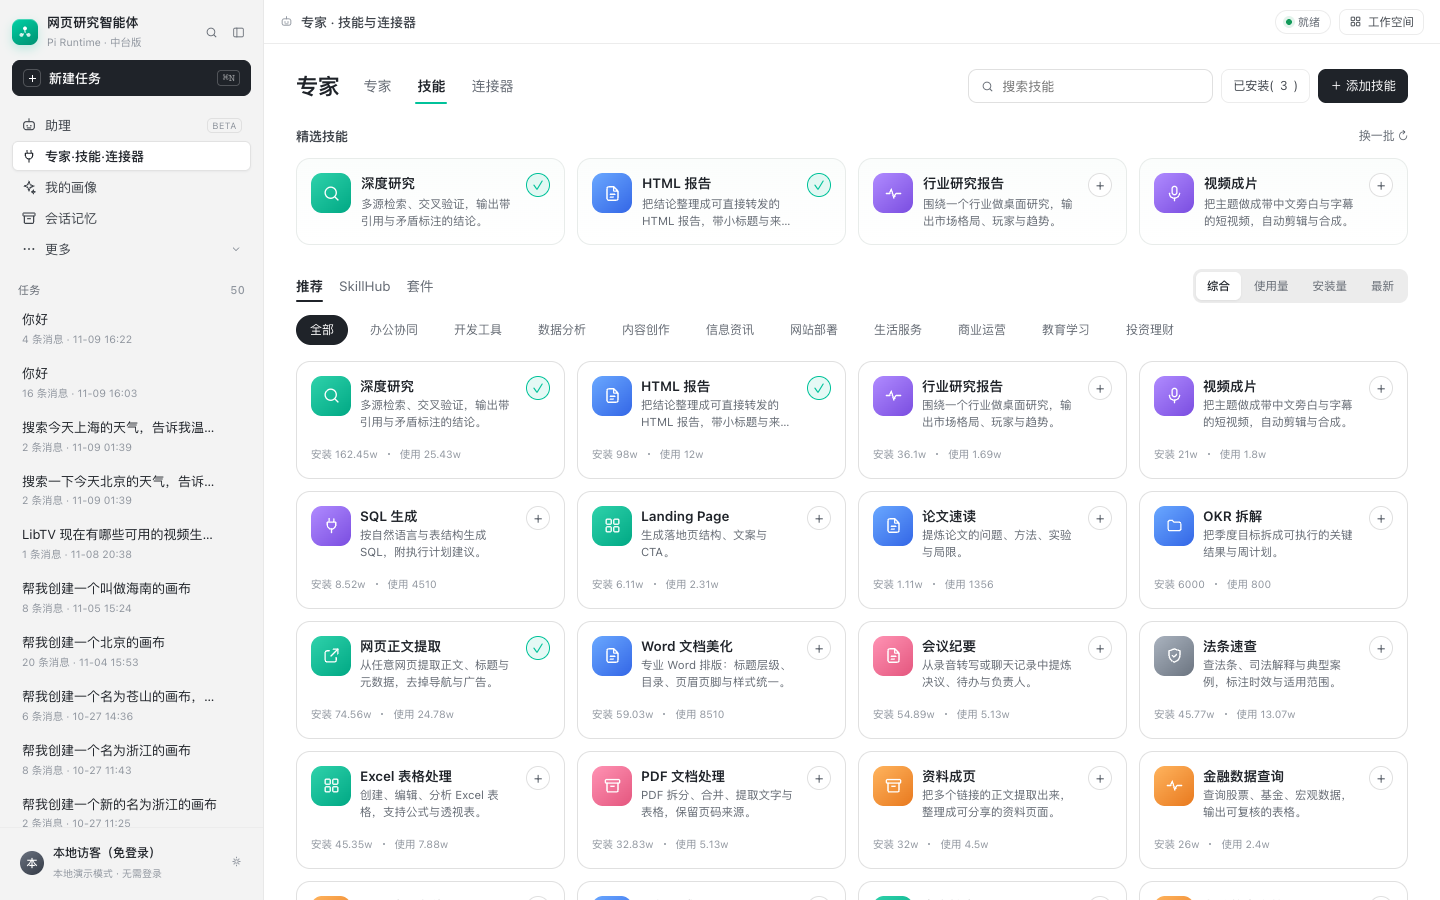
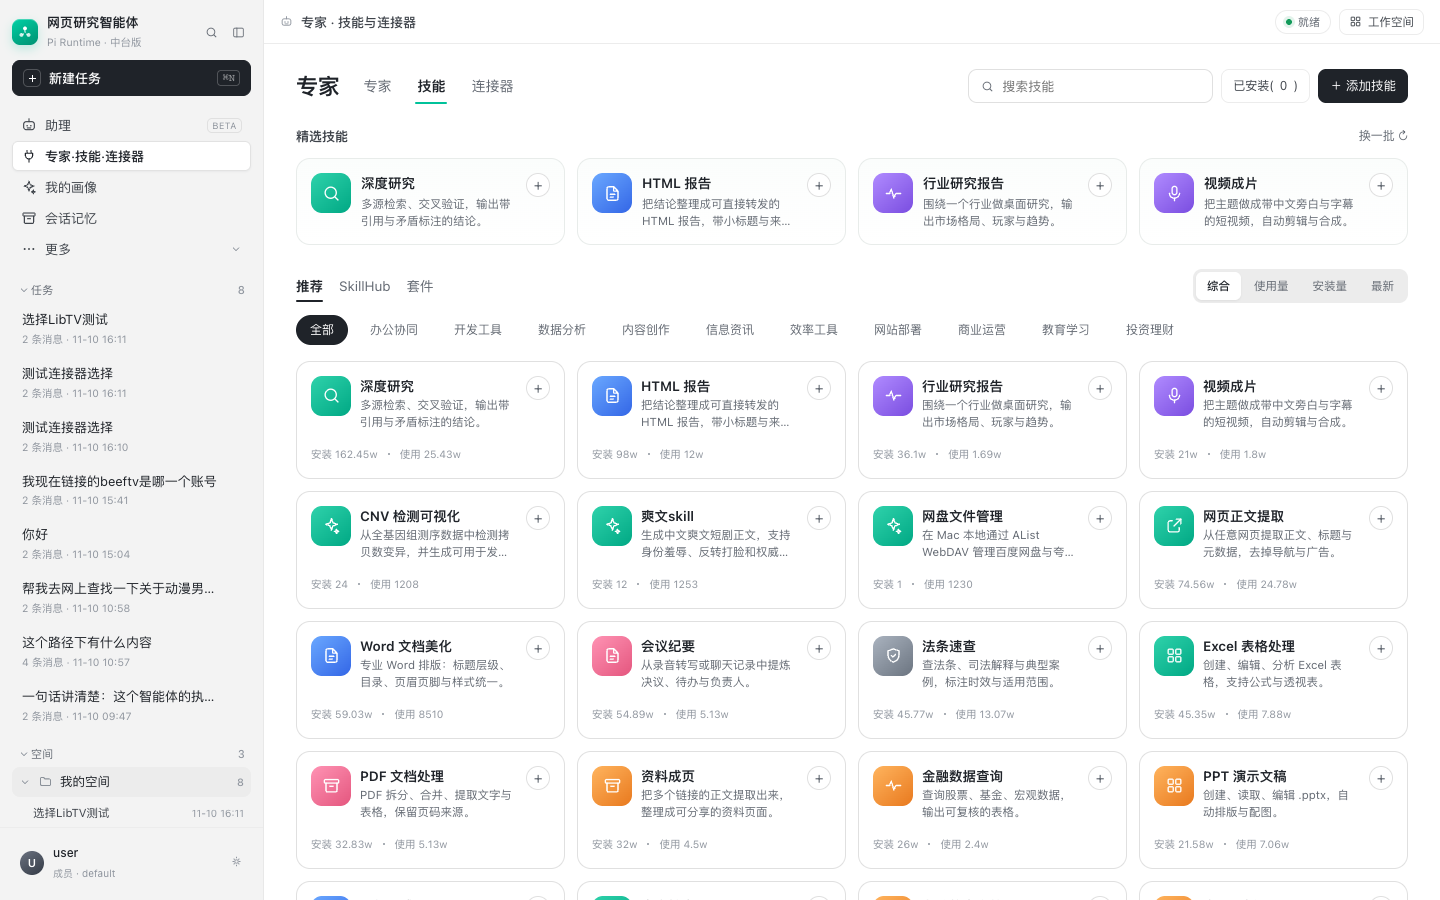
会话连接器注入工具目录，SkillHub 支持远端目录

diff --git a/src/webpage_agent/skillhub/remote.py b/src/webpage_agent/skillhub/remote.py
@@ -21,6 +21,9 @@ logger = logging.getLogger(__name__)
 
 _URL = os.getenv('SKILLHUB_URL', '').strip().rstrip('/')
 _TOKEN = os.getenv('SKILLHUB_TOKEN', '').strip()
+_PROVIDER = os.getenv('SKILLHUB_PROVIDER', 'native').strip().lower()
+_PACKAGE_TEMPLATE = os.getenv('SKILLHUB_PACKAGE_URL', '').strip()
+_REMOTE_LIMIT = max(20, int(os.getenv('SKILLHUB_REMOTE_LIMIT', '300') or 300))
 _TTL = max(30, int(os.getenv('SKILLHUB_TTL', '300') or 300))
 _lock = asyncio.Lock()
 _cache: dict = {'at': 0.0, 'items': []}
@@ -33,11 +36,73 @@ def _headers() -> dict:
     return headers
 
 
-def registry_url() -> str:
+def _workbuddy() -> bool:
+    return _PROVIDER in ('workbuddy', 'lightmake') or '/api/' in _URL
+
+
+def _list_url() -> str:
+    if _workbuddy() and not _URL.endswith('/api/skills'):
+        return _URL + '/api/skills'
     return _URL
 
 
+def registry_url() -> str:
+    return _list_url()
+
+
+def _timestamp(value) -> str:
+    try:
+        number = float(value)
+        if number > 10_000_000_000:
+            number /= 1000
+        import datetime
+        return datetime.datetime.fromtimestamp(number, datetime.timezone.utc).date().isoformat()
+    except (TypeError, ValueError, OSError):
+        return ''
+
+
+def _normalize_workbuddy(raw: list) -> list[dict]:
+    items: list[dict] = []
+    seen: set[str] = set()
+    for entry in raw:
+        if not isinstance(entry, dict):
+            continue
+        namespace = entry.get('namespace') if isinstance(entry.get('namespace'), dict) else {}
+        slug = str(entry.get('slug') or namespace.get('publicSlug') or '').strip()
+        sid = str(namespace.get('canonicalName') or slug).strip()
+        name = str(entry.get('name') or entry.get('displayName') or slug).strip()
+        if not sid or not name or sid in seen:
+            continue
+        seen.add(sid)
+        publisher = entry.get('publisher') if isinstance(entry.get('publisher'), dict) else {}
+        tags = entry.get('tags') if isinstance(entry.get('tags'), dict) else {}
+        suite = ', '.join(str(x) for x in (entry.get('subCategories') or []) if isinstance(x, dict) and x.get('name'))[:80]
+        items.append({
+            'id': sid,
+            'name': name,
+            'kind': 'skill',
+            'icon': str(entry.get('iconUrl') or '✨'),
+            'color': '#eef4ff',
+            'description': str(entry.get('description_zh') or entry.get('description') or entry.get('summary') or ''),
+            'category': str(entry.get('category') or '效率工具'),
+            'author': str(publisher.get('name') or entry.get('ownerName') or 'SkillHub'),
+            'installs': int(entry.get('installs') or 0),
+            'usage': int(entry.get('downloads') or 0),
+            'featured': bool(entry.get('verified')),
+            'paid': False,
+            'source': 'skillhub',
+            'suite': suite,
+            'version': str(entry.get('version') or '1.0.0'),
+            'created': _timestamp(entry.get('created_at')),
+            'prompt': '',
+            'remote': True,
+        })
+    return items
+
+
 def _normalize(raw: list) -> list[dict]:
+    if _workbuddy():
+        return _normalize_workbuddy(raw)
     items: list[dict] = []
     seen: set[str] = set()
     for entry in raw:
@@ -85,22 +150,37 @@ async def fetch_items(force: bool = False) -> list[dict]:
             return list(_cache['items'])
         raw: list = []
         try:
-            async with httpx.AsyncClient(timeout=8.0, trust_env=False) as client:
+            async with httpx.AsyncClient(timeout=10.0, trust_env=False) as client:
                 page = 1
                 while page <= 20:
-                    response = await client.get(_URL, params={'page': page, 'page_size': 200},
-                                                headers=_headers())
+                    if _workbuddy():
+                        response = await client.get(
+                            _list_url(), params={'page': page, 'pageSize': 100},
+                            headers=_headers())
+                    else:
+                        response = await client.get(
+                            _URL, params={'page': page, 'page_size': 200},
+                            headers=_headers())
                     response.raise_for_status()
                     payload = response.json()
-                    chunk = payload.get('items') if isinstance(payload, dict) else payload
+                    if _workbuddy():
+                        data = payload.get('data') if isinstance(payload, dict) else None
+                        chunk = data.get('skills') if isinstance(data, dict) else None
+                        total = int((data or {}).get('total') or 0) if isinstance(data, dict) else 0
+                    else:
+                        chunk = payload.get('items') if isinstance(payload, dict) else payload
+                        total = 0
                     if not isinstance(chunk, list):
-                        raise ValueError('items 不是数组')
+                        raise ValueError('远端目录不是数组')
                     raw.extend(chunk)
-                    if not (isinstance(payload, dict) and payload.get('has_more')):
+                    if _workbuddy():
+                        if not chunk or (total and len(raw) >= min(total, _REMOTE_LIMIT)):
+                            break
+                    elif not (isinstance(payload, dict) and payload.get('has_more')):
                         break
                     page += 1
         except Exception as exc:                       # noqa: BLE001
-            logger.warning('技能目录远端拉取失败 %s: %s', _URL, exc)
+            logger.warning('技能目录远端拉取失败 %s: %s', _list_url(), exc)
             return list(_cache['items'])
 
         items = _normalize(raw)
@@ -113,6 +193,18 @@ async def fetch_detail(skill_id: str) -> dict:
     """取详情（含 package.url / package.sha256）。"""
     if not _URL:
         return {}
+    if _workbuddy():
+        raw = str(skill_id or '').strip()
+        namespace = ''
+        slug = raw
+        if raw.startswith('@') and '/' in raw:
+            namespace, slug = raw[1:].split('/', 1)
+        url = f"{_URL.rstrip('/')}/api/v1/skills/{quote(slug)}"
+        params = {'namespace': namespace} if namespace else None
+        async with httpx.AsyncClient(timeout=10.0, trust_env=False) as client:
+            response = await client.get(url, params=params, headers=_headers())
+            response.raise_for_status()
+            return response.json()
     url = f"{_URL}/{quote(skill_id)}"
     async with httpx.AsyncClient(timeout=8.0, trust_env=False) as client:
         response = await client.get(url, headers=_headers())
@@ -126,7 +218,11 @@ async def download_package(skill_id: str, version: str, dest_dir: Path) -> dict:
     package = detail.get('package') or {}
     url = str(package.get('url') or '')
     expected = str(package.get('sha256') or '')
+    if not url and _workbuddy() and _PACKAGE_TEMPLATE:
+        url = _PACKAGE_TEMPLATE.format(slug=quote(str(skill_id)), version=quote(str(version)))
     if not url:
+        if _workbuddy():
+            raise RuntimeError('该远端技能没有公开下载地址；可配置 SKILLHUB_PACKAGE_URL 模板')
         raise RuntimeError('该技能没有提供下载地址')
     if url.startswith('/'):
         url = urljoin(_URL + '/', url)

diff --git a/src/webpage_agent/api/api_hub.py b/src/webpage_agent/api/api_hub.py
@@ -14,6 +14,7 @@
 与轮询（早期 Streamlit 版本那份实现已随 UI 迁移删除）。
 """
 import asyncio
+import json
 import logging
 import time
 import uuid
@@ -481,6 +482,17 @@ class Hub(HubSessionMixin, HubSessionMessageMixin, HubInputsMixin,
             # 测试里的替身仍是原来的签名。
             scope_token = sandbox.use_scope(record.tenant_id, record.owner_user_id)
             workspace_token = sandbox.use_workspace(stored)
+            from webpage_agent.agent import connector_scope
+            session_row = await self.store.session(record.session_id) or {}
+            raw_connectors = session_row.get('connector_ids_json')
+            if raw_connectors in (None, ''):
+                selected_connectors = None          # 旧会话：沿用全部已配置工具
+            else:
+                try:
+                    selected_connectors = json.loads(raw_connectors)
+                except (TypeError, ValueError):
+                    selected_connectors = []
+            connector_token = connector_scope.use(selected_connectors)
             try:
                 return await run_task(
                     record.message, on_event=relay,
@@ -490,6 +502,7 @@ class Hub(HubSessionMixin, HubSessionMessageMixin, HubInputsMixin,
                     resume_plan=plan_hint,
                 )
             finally:
+                connector_scope.reset(connector_token)
                 sandbox.reset_workspace(workspace_token)
                 sandbox.reset_scope(scope_token)
 

diff --git a/src/webpage_agent/store/pg_auth.py b/src/webpage_agent/store/pg_auth.py
@@ -508,8 +508,16 @@ class PgAuth:
             msg_row = await self._one(conn,
                 'SELECT id FROM messages WHERE session_id=%s AND dedupe_key=%s',
                 (session_id, f'turn:{turn_id}'))
-            await self._run(conn, 'UPDATE sessions SET updated_at=%s WHERE session_id=%s',
-                            (stamp, session_id))
+            if connector_ids is not None:
+                await self._run(conn,
+                    'UPDATE sessions SET updated_at=%s, connector_ids_json=%s '
+                    'WHERE session_id=%s',
+                    (stamp, json.dumps([str(x) for x in connector_ids],
+                                       ensure_ascii=False), session_id))
+            else:
+                await self._run(conn,
+                    'UPDATE sessions SET updated_at=%s WHERE session_id=%s',
+                    (stamp, session_id))
             await conn.commit()
         return {'turn_id': turn_id, 'message_id': int((msg_row or {}).get('id') or 0),
                 'status': 'accepted', 'replayed': False, 'kind': kind,

diff --git a/src/webpage_agent/agent/connector_scope.py b/src/webpage_agent/agent/connector_scope.py
@@ -1,0 +1,36 @@
+"""当前 run 允许使用的连接器集合。
+
+`None` 表示“没有显式选择”，沿用旧行为（所有已配置 MCP 工具可见）；
+空集合表示用户明确不选任何连接器，MCP 工具全部不注入。
+"""
+from __future__ import annotations
+
+from contextlib import contextmanager
+from contextvars import ContextVar
+from typing import Iterator
+
+_ALLOWED: ContextVar[tuple[str, ...] | None] = ContextVar(
+    'run_connector_scope', default=None)
+
+
+def current() -> tuple[str, ...] | None:
+    return _ALLOWED.get()
+
+
+def use(ids: list[str] | tuple[str, ...] | None):
+    if ids is None:
+        return _ALLOWED.set(None)
+    return _ALLOWED.set(tuple(str(item) for item in ids if str(item).strip()))
+
+
+def reset(token) -> None:
+    _ALLOWED.reset(token)
+
+
+@contextmanager
+def scope(ids: list[str] | tuple[str, ...] | None) -> Iterator[None]:
+    token = use(ids)
+    try:
+        yield
+    finally:
+        reset(token)

diff --git a/src/webpage_agent/store/migrations.py b/src/webpage_agent/store/migrations.py
@@ -54,7 +54,9 @@ TURN_OWNER_ROLE = 'v12_turn_owner_role'
 USER_WORKSPACE = 'v13_user_workspace'
 # 会话级连接器选择：每条 turn 记住用户在当前会话选中的连接器，供工具注入与审计。
 CONNECTOR_SELECTION = 'v14_connector_selection'
-LATEST = CONNECTOR_SELECTION
+# 会话级选择也落到 sessions 行：业务 run 执行时按会话读取，而不是只看某条 turn。
+SESSION_CONNECTOR_SELECTION = 'v15_session_connector_selection'
+LATEST = SESSION_CONNECTOR_SELECTION
 LOCK_ID = 719284631
 UPGRADES = ((GOVERNANCE, '''
 CREATE TABLE api_rate_windows (
@@ -149,6 +151,9 @@ CREATE TABLE IF NOT EXISTS user_workspaces (
 '''), (CONNECTOR_SELECTION, '''
 ALTER TABLE session_turns
     ADD COLUMN IF NOT EXISTS connector_ids_json TEXT NOT NULL DEFAULT '[]';
+'''), (SESSION_CONNECTOR_SELECTION, '''
+ALTER TABLE sessions
+    ADD COLUMN IF NOT EXISTS connector_ids_json TEXT;
 '''))
 
 

diff --git a/src/webpage_agent/store/pg_schema.py b/src/webpage_agent/store/pg_schema.py
@@ -9,12 +9,14 @@ CREATE TABLE IF NOT EXISTS sessions (
     session_id    TEXT PRIMARY KEY,
     tenant_id     TEXT NOT NULL DEFAULT 'default',
     owner_user_id TEXT NOT NULL DEFAULT 'default',
+    connector_ids_json TEXT,
     created_at    TEXT NOT NULL,
     updated_at    TEXT NOT NULL
 );
 -- 旧库升级：PG 支持 ADD COLUMN IF NOT EXISTS，直接并进建表脚本即可当迁移
 ALTER TABLE sessions ADD COLUMN IF NOT EXISTS tenant_id TEXT NOT NULL DEFAULT 'default';
 ALTER TABLE sessions ADD COLUMN IF NOT EXISTS owner_user_id TEXT NOT NULL DEFAULT 'default';
+ALTER TABLE sessions ADD COLUMN IF NOT EXISTS connector_ids_json TEXT;
 -- 用户级工作目录：前端「选择工作空间」选中的本地目录。
 -- 存量库由 v13_user_workspace 迁移建表，这里只是让新库快照保持完整。
 CREATE TABLE IF NOT EXISTS user_workspaces (

diff --git a/src/webpage_agent/agent/pi_runtime.py b/src/webpage_agent/agent/pi_runtime.py
@@ -184,6 +184,14 @@ async def pi_tool_catalog() -> tuple[list[dict[str, Any]], list]:
         mcp = await tools_core.mcp_tools()
     except Exception:                                # noqa: BLE001
         mcp = []
+    from webpage_agent.agent import connector_scope
+    allowed_connectors = connector_scope.current()
+    if allowed_connectors is not None:
+        allowed = set(allowed_connectors)
+        def _mcp_server_id(tool) -> str:
+            parts = str(getattr(tool, 'tool_key', '') or '').split(':', 2)
+            return parts[1] if len(parts) >= 3 else ''
+        mcp = [tool for tool in mcp if _mcp_server_id(tool) in allowed]
     for tool in mcp:
         key = getattr(tool, 'tool_key', '') or ''
         effect = str(getattr(tool, 'effect', '') or 'unknown')

diff --git a/src/webpage_agent/api/hub_messages.py b/src/webpage_agent/api/hub_messages.py
@@ -214,7 +214,7 @@ class HubSessionMessageMixin:
                 if getattr(principal, 'authenticated', False) else 'member',
                 candidates=candidates, clarification=clarification,
                 source_turn_id=source_turn_id,
-                connector_ids=connector_ids or [])
+                connector_ids=connector_ids)
         except TurnRequestConflict:
             raise
         return {'turn_id': result['turn_id'],

diff --git a/src/webpage_agent/api/routes.py b/src/webpage_agent/api/routes.py
@@ -226,7 +226,7 @@ class SessionMessageRequest(StrictBody):
                             pattern=r'^[A-Za-z0-9_.:-]+$')
     message: str = Field(min_length=1, max_length=10000)
     target_task_id: str | None = Field(default=None, max_length=64)
-    connector_ids: list[str] = Field(default_factory=list, max_length=100)
+    connector_ids: list[str] | None = Field(default=None, max_length=100)
 
 
 class PlatformContextRequest(StrictBody):

diff --git a/docs/skillhub.md b/docs/skillhub.md
@@ -182,6 +182,40 @@ _item('my-skill', '我的技能', 'skill', '✨', '#e9faf5',
 
 重启服务后自动出现在目录里；前端不需要改。
 
+## 4.1 远端 SkillHub
+
+`remote.py` 支持两种目录形状：
+
+```env
+# 我们自己的 SkillHub（默认）
+SKILLHUB_PROVIDER=native
+SKILLHUB_URL=http://127.0.0.1:8010/v1/skills
+
+# WorkBuddy / lightmake 风格
+SKILLHUB_PROVIDER=workbuddy
+SKILLHUB_URL=https://lightmake.site
+SKILLHUB_REMOTE_LIMIT=300
+```
+
+WorkBuddy 形状的接口：
+
+```text
+GET /api/skills?page=&pageSize=&keyword=&category=
+GET /api/v1/skills/{slug}?namespace=
+```
+
+本项目会把它归一化成内部的 `id/name/description/author/installs/usage/...`，
+与本地种子目录合并；当前实测拉到 300 条远端技能 + 30 条本地技能，共 330 张卡片。
+
+注意：
+
+- 远端只保证**目录读取**；公开目录没有提供技能包下载地址，所以远端条目直接安装会失败；
+- 需要可安装的远端时，配置 `SKILLHUB_PACKAGE_URL` 模板（`{slug}`、`{version}`），
+  或把 `SKILLHUB_URL` 指向你自己的、带 `package.url/sha256` 的 SkillHub；
+- 远端失败自动回退缓存/本地种子，不会让页面空白。
+
+![远端 SkillHub](assets/workbuddy/skillhub-remote.png)
+
 ## 5. 安装状态
 
 - 路径：`profile/skillhub/<tenant>__<user>.json`；
@@ -206,7 +240,7 @@ PY
 
 ## 7. 边界与下一步
 
-- 目录是**静态**的，真实 SkillHub 还需要远端 registry、签名/校验、版本与依赖解析；
+- 目录已支持远端（native / workbuddy 两种形状），但远端安装依赖技能包地址；
 - 安装目前只记录状态，不会自动注册工具；下一步可把已安装技能注入系统提示或工具白名单；
 - 单机 JSON 适合当前部署；多副本/多租户应换 PostgreSQL 表；
 - 需要 RBAC：普通用户只能安装，operator 才能上架/下架；

diff --git a/docs/connector-hover.md b/docs/connector-hover.md
@@ -58,7 +58,8 @@
 ## 3. 与 WorkBuddy 的差异
 
 - 会话级选择、标签、请求 payload 已对齐；
-- 目前 `connector_ids` 已落库，但**还没有按它过滤 Pi 的 MCP 工具**：agent 仍可能看到全部已启用连接器；这是下一步；
+- `connector_ids` 已落库，业务 run 执行时按会话选择过滤 MCP 工具：
+  显式空集合 = 不注入任何 MCP 工具，`NULL` = 兼容旧会话（全部）；
 - 点 X / 关闭开关只移除会话选择，不主动打掉账号级 MCP 连接；
 - 未配置的远程连接器显示「配置」，不会伪造连接成功；
 - OAuth/设备码授权尚未接入，当前仍以 MCP token/stdio 配置为主。
